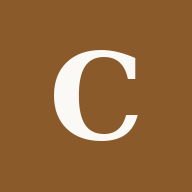
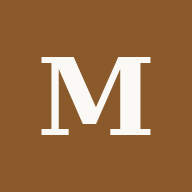
Add files via upload

Changed region(s): [[0.2188, 0.25, 0.7812, 0.75]]

diff --git a/index.html b/index.html
@@ -6,7 +6,8 @@
 <meta name="apple-mobile-web-app-capable" content="yes">
 <meta name="mobile-web-app-capable" content="yes">
 <meta name="theme-color" content="#1f1f1f">
-<title>Catartsma</title>
+<meta name="apple-mobile-web-app-title" content="Mira">
+<title>Mira</title>
 <link rel="manifest" href="manifest.json">
 <link rel="icon" href="icon-192.png">
 <link rel="apple-touch-icon" href="icon-192.png">
@@ -72,7 +73,7 @@
 </head>
 <body>
 <header id="hdr" class="hidden">
-  <h1>Catartsma</h1>
+  <h1>Mira</h1>
   <button data-nav="works" data-t="works_t"></button>
   <button data-nav="exhibitions" data-t="exhibitions"></button>
   <button data-nav="places" data-t="places"></button>
@@ -82,13 +83,15 @@
   <button data-nav="admins" data-t="admins" class="adm hidden"></button>
   <button data-nav="team" data-t="team" id="navTeam" class="hidden"></button>
   <span class="sp"></span>
+  <button id="btnCur" title="US$ / MX$"></button>
+  <button id="btnUnit" title="cm / in"></button>
   <button id="btnLang"></button>
   <button id="btnOut" data-t="logout"></button>
 </header>
 
 <main>
   <section id="vLogin" class="panel hidden" style="max-width:380px;margin-top:40px">
-    <h2>Catartsma</h2>
+    <h2>Mira</h2>
     <label data-t="email"></label><input id="lEmail" type="email" autocomplete="username">
     <label data-t="password"></label><input id="lPass" type="password" autocomplete="current-password">
     <div class="toolbar" style="margin-top:14px">
@@ -113,6 +116,7 @@
     <div class="toolbar" id="fOwnerBox"></div>
     <div class="toolbar">
       <span class="count" id="count"></span>
+      <span class="count" id="rateInfo" style="cursor:pointer;text-decoration:underline dotted"></span>
       <button id="btnSelAll" data-t="selectall"></button>
       <button id="btnSelClear" data-t="clearsel"></button>
       <button id="btnCards"></button>
@@ -158,7 +162,7 @@
     </div>
     <label data-t="signature"></label><input id="eSig">
     <div class="row">
-      <div><label data-t="price"></label><input id="ePrice" type="number" step="1" inputmode="decimal"></div>
+      <div><label data-t="price"></label><input id="ePrice" type="number" step="1" inputmode="decimal"><div class="muted" id="ePriceHint"></div></div>
       <div><label data-t="status"></label><select id="eStatus"></select></div>
     </div>
     <div class="row">
@@ -168,7 +172,7 @@
     <div class="row">
       <div><label data-t="owner"></label><select id="eOwner"></select></div>
       <div><label data-t="solddate"></label><input id="eSold" type="date"></div>
-      <div><label data-t="saleprice"></label><input id="eSale" type="number" step="1" inputmode="decimal"></div>
+      <div><label data-t="saleprice"></label><input id="eSale" type="number" step="1" inputmode="decimal"><div class="muted" id="eSaleHint"></div></div>
     </div>
     <label data-t="exhibitions"></label><div class="chips" id="eExhs"></div>
     <label data-t="notes"></label><textarea id="eNotes" rows="3"></textarea>
@@ -218,7 +222,7 @@
     <div style="overflow-x:auto"><table id="pTable"></table></div>
     <h3 id="pFormHead"></h3>
     <label data-t="pmedium"></label><input id="pMedium" list="pMediumList">
-    <datalist id="pMediumList"><option value="Giclée sobre papel de algodón"><option value="Giclée sobre canvas"><option value="Serigrafía"><option value="Litografía"><option value="Grabado"><option value="Impresión digital sobre papel"></datalist>
+    <datalist id="pMediumList"></datalist>
     <div class="row">
       <div><label data-t="height"></label><input id="pH" type="number" step="0.1" inputmode="decimal"></div>
       <div><label data-t="width"></label><input id="pW" type="number" step="0.1" inputmode="decimal"></div>
@@ -231,7 +235,7 @@
       <div><label data-t="psold"></label><input id="pSold" type="number" inputmode="numeric"></div>
     </div>
     <div class="row">
-      <div><label data-t="price"></label><input id="pPrice" type="number" step="1" inputmode="decimal"></div>
+      <div><label data-t="price"></label><input id="pPrice" type="number" step="1" inputmode="decimal"><div class="muted" id="pPriceHint"></div></div>
       <div><label data-t="pprinter"></label><input id="pPrinter"></div>
       <div><label data-t="pdate"></label><input id="pDate" type="date"></div>
     </div>
@@ -288,7 +292,7 @@ const sb = supabase.createClient(SUPABASE_URL, SUPABASE_KEY);
 
 const T = {
   es: { email:'Correo', password:'Contraseña', signin:'Entrar', signup:'Crear cuenta', logout:'Salir', artists:'Artistas', import:'Importar',
-    works_t:'Obras', copies:'Ejemplares', gencopies:'Generar ejemplares (1…tiraje + P/A)', copy:'Ejemplar', cst_available:'Disponible', cst_reserved:'Reservado', cst_sold:'Vendido', cst_gift:'Regalo', cst_artist:'Del artista', needsize:'Primero indica el tiraje y guarda la edición.',  hires:'Fotos en alta resolución (enlace o carpeta)', open:'Abrir', hiresfolder:'Carpeta de fotos en alta resolución', hireshint:'Carpeta general del artista: ', prints:'Reproducciones', manageprints:'Ver / editar reproducciones', savefirst:'Guarda la obra primero para agregar reproducciones.', noprints:'Sin reproducciones.', editions:'ediciones', edition1:'edición', pmedium:'Técnica de impresión / soporte', pedition:'Tiraje (ejemplares)', pap:'Pruebas de artista (P/A)', pprinted:'Impresos hasta hoy', psold:'Vendidos', pprinter:'Taller / impresor', pdate:'Fecha de impresión', back:'Volver', available_n:'disponibles', newedition:'Nueva edición', editedition:'Editar edición',  team:'Equipo', admins:'Admins', add:'Agregar', remove:'Quitar', you:'(tú)', owner_t:'(artista)', teamhelp:'Personas que pueden manejar tu cuenta: ven y editan solo tus obras, lugares, clientes y exposiciones. Agrega su correo; luego ellas crean su cuenta en la app con ese mismo correo.', adminshelp:'Los administradores ven y manejan todo, de todos los artistas. Agrega su correo; luego crean su cuenta en la app con ese correo.', takephoto:'Tomar foto', choosephotos:'Elegir fotos', newphoto:'nueva', pickworks:'Obras en esta exposición', pickall:'Todas / ninguna', exhibitions:'Exposiciones', places:'Lugares', clients:'Clientes',
+    works_t:'Obras', ap_short:'P/A', venueplace:'Lugar (sede)',  cms:'Centímetros', rateset:'Tipo de cambio: pesos por 1 dólar (vacío = automático)', rateauto:'automático', ratemanual:'fijado a mano', rateclick:'(tocar para cambiar)',  copies:'Ejemplares', gencopies:'Generar ejemplares (1…tiraje + P/A)', copy:'Ejemplar', cst_available:'Disponible', cst_reserved:'Reservado', cst_sold:'Vendido', cst_gift:'Regalo', cst_artist:'Del artista', needsize:'Primero indica el tiraje y guarda la edición.',  hires:'Fotos en alta resolución (enlace o carpeta)', open:'Abrir', hiresfolder:'Carpeta de fotos en alta resolución', hireshint:'Carpeta general del artista: ', prints:'Reproducciones', manageprints:'Ver / editar reproducciones', savefirst:'Guarda la obra primero para agregar reproducciones.', noprints:'Sin reproducciones.', editions:'ediciones', edition1:'edición', pmedium:'Técnica de impresión / soporte', pedition:'Tiraje (ejemplares)', pap:'Pruebas de artista (P/A)', pprinted:'Impresos hasta hoy', psold:'Vendidos', pprinter:'Taller / impresor', pdate:'Fecha de impresión', back:'Volver', available_n:'disponibles', newedition:'Nueva edición', editedition:'Editar edición',  team:'Equipo', admins:'Admins', add:'Agregar', remove:'Quitar', you:'(tú)', owner_t:'(artista)', teamhelp:'Personas que pueden manejar tu cuenta: ven y editan solo tus obras, lugares, clientes y exposiciones. Agrega su correo; luego ellas crean su cuenta en la app con ese mismo correo.', adminshelp:'Los administradores ven y manejan todo, de todos los artistas. Agrega su correo; luego crean su cuenta en la app con ese correo.', takephoto:'Tomar foto', choosephotos:'Elegir fotos', newphoto:'nueva', pickworks:'Obras en esta exposición', pickall:'Todas / ninguna', exhibitions:'Exposiciones', places:'Lugares', clients:'Clientes',
     new:'+ Nueva obra', selectall:'Seleccionar todo', clearsel:'Quitar selección', printcards:'Fichas', printcoas:'Certificados', pricelist:'Lista de precios',
     artist:'Artista', title:'Título', year:'Año', code:'Código', technique:'Técnica', support:'Soporte',
     height:'Alto (cm)', width:'Ancho (cm)', depth:'Fondo (cm)', fheight:'Alto con marco (cm)', fwidth:'Ancho con marco (cm)', fdepth:'Fondo con marco (cm)',
@@ -311,7 +315,7 @@ const T = {
     importfiles:'Fotos', importrun:'Importar', importdone:'Listo: {n} obras importadas.', importexists:'Este artista ya tiene obras; no se importó nada.',
     inches:'Pulgadas', unique:'Única' },
   en: { email:'Email', password:'Password', signin:'Sign in', signup:'Create account', logout:'Sign out', artists:'Artists', import:'Import',
-    works_t:'Works', copies:'Copies', gencopies:'Create copies (1…edition + AP)', copy:'Copy', cst_available:'Available', cst_reserved:'Reserved', cst_sold:'Sold', cst_gift:'Gift', cst_artist:'Artist’s', needsize:'First enter the edition size and save the edition.',  hires:'High-res photos (link or folder)', open:'Open', hiresfolder:'High-res photos folder', hireshint:'Artist’s general folder: ', prints:'Prints', manageprints:'View / edit prints', savefirst:'Save the work first to add prints.', noprints:'No prints.', editions:'editions', edition1:'edition', pmedium:'Print technique / support', pedition:'Edition size', pap:'Artist’s proofs (AP)', pprinted:'Printed so far', psold:'Sold', pprinter:'Print studio', pdate:'Print date', back:'Back', available_n:'available', newedition:'New edition', editedition:'Edit edition',  team:'Team', admins:'Admins', add:'Add', remove:'Remove', you:'(you)', owner_t:'(artist)', teamhelp:'People who can manage your account: they see and edit only your works, places, clients and exhibitions. Add their email; then they create their account in the app with that same email.', adminshelp:'Admins see and manage everything, for every artist. Add their email; then they create their account in the app with that email.', takephoto:'Take photo', choosephotos:'Choose photos', newphoto:'new', pickworks:'Works in this exhibition', pickall:'All / none', exhibitions:'Exhibitions', places:'Places', clients:'Clients',
+    works_t:'Works', ap_short:'AP', venueplace:'Place (venue)',  cms:'Centimeters', rateset:'Exchange rate: pesos per 1 dollar (empty = automatic)', rateauto:'automatic', ratemanual:'set by hand', rateclick:'(tap to change)',  copies:'Copies', gencopies:'Create copies (1…edition + AP)', copy:'Copy', cst_available:'Available', cst_reserved:'Reserved', cst_sold:'Sold', cst_gift:'Gift', cst_artist:'Artist’s', needsize:'First enter the edition size and save the edition.',  hires:'High-res photos (link or folder)', open:'Open', hiresfolder:'High-res photos folder', hireshint:'Artist’s general folder: ', prints:'Prints', manageprints:'View / edit prints', savefirst:'Save the work first to add prints.', noprints:'No prints.', editions:'editions', edition1:'edition', pmedium:'Print technique / support', pedition:'Edition size', pap:'Artist’s proofs (AP)', pprinted:'Printed so far', psold:'Sold', pprinter:'Print studio', pdate:'Print date', back:'Back', available_n:'available', newedition:'New edition', editedition:'Edit edition',  team:'Team', admins:'Admins', add:'Add', remove:'Remove', you:'(you)', owner_t:'(artist)', teamhelp:'People who can manage your account: they see and edit only your works, places, clients and exhibitions. Add their email; then they create their account in the app with that same email.', adminshelp:'Admins see and manage everything, for every artist. Add their email; then they create their account in the app with that email.', takephoto:'Take photo', choosephotos:'Choose photos', newphoto:'new', pickworks:'Works in this exhibition', pickall:'All / none', exhibitions:'Exhibitions', places:'Places', clients:'Clients',
     new:'+ New work', selectall:'Select all', clearsel:'Clear', printcards:'Cards', printcoas:'Certificates', pricelist:'Price list',
     artist:'Artist', title:'Title', year:'Year', code:'Code', technique:'Technique', support:'Support',
     height:'Height (cm)', width:'Width (cm)', depth:'Depth (cm)', fheight:'Framed height (cm)', fwidth:'Framed width (cm)', fdepth:'Framed depth (cm)',
@@ -346,6 +350,47 @@ const num = v => (v === '' || v == null) ? null : Number(v);
 const inch = cm => (Math.round(cm / 2.54 * 10) / 10).toFixed(1);
 const fmtNum = n => String(+n);
 const usd = n => n == null ? '' : 'US$' + Number(n).toLocaleString('en-US', {maximumFractionDigits:0});
+const ls = (k, d) => { try { const v = localStorage.getItem(k); return v == null ? d : v; } catch(e) { return d; } };
+const lsSet = (k, v) => { try { localStorage.setItem(k, v); } catch(e) {} };
+let cur = ls('mira_cur', 'USD'), unit = ls('mira_unit', 'cm');
+let rate = (() => { try { return JSON.parse(ls('mira_rate', 'null')); } catch(e) { return null; } })();   // {value, date, manual, fetched}
+async function refreshRate(force) {
+  if (rate?.manual && !force) return;
+  if (!force && rate?.fetched && Date.now() - rate.fetched < 6 * 3600e3) return;
+  const tries = [
+    ['https://api.frankfurter.dev/v1/latest?base=USD&symbols=MXN', j => [j.rates.MXN, j.date]],
+    ['https://open.er-api.com/v6/latest/USD', j => [j.rates.MXN, (j.time_last_update_utc || '').slice(5, 16)]]
+  ];
+  for (const [u, pick] of tries) {
+    try { const j = await (await fetch(u)).json(); const [v, d] = pick(j); if (v) { rate = { value: v, date: d, manual: false, fetched: Date.now() }; lsSet('mira_rate', JSON.stringify(rate)); return; } } catch(e) {}
+  }
+}
+const rateVal = () => rate?.value || null;
+const priceHdr = () => (cur === 'MXN' && rateVal()) ? t('price').replace('US$', 'MX$') : t('price');
+// money: amounts are stored in US$; shown in the chosen currency
+const money = n => {
+  if (n == null || n === '') return '';
+  if (cur === 'MXN' && rateVal()) return 'MX$' + (Math.round(Number(n) * rateVal() / 100) * 100).toLocaleString('en-US');
+  return usd(n);
+};
+const mxnHint = n => (n == null || n === '' || !rateVal()) ? '' : '≈ MX$' + (Math.round(Number(n) * rateVal() / 100) * 100).toLocaleString('en-US');
+// sizes: stored in cm; shown/entered in the chosen unit
+const toUnit = cm => unit === 'in' ? Math.round(cm / 2.54 * 10) / 10 : +cm;
+const fromUnit = v => (v === '' || v == null) ? null : (unit === 'in' ? Math.round(Number(v) * 2.54 * 10) / 10 : Number(v));
+// size inputs remember their exact cm value, so an untouched field never drifts when shown in inches
+function setDim(id, cm) { const el = $(id); el.dataset.cm = (cm == null || cm === '') ? '' : cm; el.value = (cm == null || cm === '') ? '' : toUnit(cm); }
+function readDim(id) {
+  const el = $(id);
+  if (el.value === '') return null;
+  if (el.dataset.cm !== undefined && el.dataset.cm !== '' && Number(el.value) === toUnit(Number(el.dataset.cm))) return Number(el.dataset.cm);
+  return fromUnit(el.value);
+}
+function dimsTxt(d, both = true) {
+  if (!d.length) return '';
+  const cmT = d.map(fmtNum).join(' x ') + ' cm', inT = d.map(inch).join(' x ') + ' in';
+  if (!both) return unit === 'in' ? inT : cmT;
+  return unit === 'in' ? inT + '  ·  ' + cmT : cmT + '  ·  ' + inT;
+}
 const photoUrl = p => sb.storage.from('photos').getPublicUrl(p).data.publicUrl;
 const opt = (v, label, sel) => `<option value="${esc(v)}"${sel ? ' selected' : ''}>${esc(label)}</option>`;
 const fmtDate = d => d ? new Date(d.length === 10 ? d + 'T12:00:00' : d).toLocaleDateString(lang === 'es' ? 'es-MX' : 'en-US', { year:'numeric', month:'long', day:'numeric' }) : '';
@@ -353,8 +398,7 @@ function dims(a, b, c) { return [a, b, c].filter(x => x != null && x !== ''); }
 function sizeText(w, withIn = true, framed = false) {
   const d = framed ? dims(w.framed_height_cm, w.framed_width_cm, w.framed_depth_cm) : dims(w.height_cm, w.width_cm, w.depth_cm);
   if (!d.length) return '';
-  const cm = d.map(fmtNum).join(' x ') + ' cm';
-  return withIn ? cm + '  ·  ' + d.map(inch).join(' x ') + ' in' : cm;
+  return dimsTxt(d, withIn);
 }
 const VIEWS = ['vLogin','vNoLink','vList','vEdit','vEnt','vImport','vTeam','vPrints'];
 function show(id) { VIEWS.forEach(v => $(v).classList.toggle('hidden', v !== id)); window.scrollTo(0,0); }
@@ -391,6 +435,7 @@ let curEnt = null, entEditing = null;
 
 async function boot() {
   applyLang();
+  if (cur === 'MXN') refreshRate().then(rerenderAll);
   const { data } = await sb.auth.getSession();
   if (data.session) await enter(data.session); else show('vLogin');
 }
@@ -436,15 +481,56 @@ const placeLabel = p => p.name + (isAdmin ? ' · ' + artistName(p.artist_id) : '
 
 function applyLang() {
   document.documentElement.lang = lang;
-  document.querySelectorAll('[data-t]').forEach(el => el.textContent = t(el.dataset.t));
+  document.querySelectorAll('[data-t]').forEach(el => { const v = t(el.dataset.t); el.textContent = unit === 'in' ? v.replace('(cm)', '(in)') : v; });
+  $('btnCur').textContent = cur === 'MXN' ? 'MX$' : 'US$'; $('btnUnit').textContent = unit;
+  renderRateInfo();
   $('btnLang').textContent = $('btnLang2').textContent = lang === 'es' ? 'English' : 'Español';
   $('fText').placeholder = t('search');
+  const stKeep = $('eStatus').value;
   $('eStatus').innerHTML = STATUSES.map(s => opt(s, t('st_'+s))).join('');
+  if (stKeep) $('eStatus').value = stKeep;
+  fillMediumList();
   fillFilters();
   if (!$('vList').classList.contains('hidden')) renderList();
   if (!$('vEnt').classList.contains('hidden') && curEnt) renderEnt();
 }
-function toggleLang() { lang = lang === 'es' ? 'en' : 'es'; try { localStorage.setItem('cat_lang', lang); } catch(e) {} applyLang(); }
+function renderRateInfo() {
+  const el = $('rateInfo'); if (!el) return;
+  el.textContent = (cur === 'MXN' && rateVal()) ? `1 US$ = ${rateVal().toFixed(2)} MX$ · ${rate.manual ? t('ratemanual') : (rate.date || t('rateauto'))} ${t('rateclick')}` : '';
+}
+function refreshOpenView() {
+  const open = id => !$(id).classList.contains('hidden');
+  if (open('vEdit')) { $('eHead').textContent = editing ? t('editwork') : t('newwork'); updInches(); renderPrintSummary(editing); }
+  if (open('vPrints')) { renderEdTable(); $('pFormHead').textContent = pEditing ? t('editedition') : t('newedition'); updPInches(); renderCopies(); }
+  if (open('vTeam')) { const em = $('tEmail').value; goTeam(teamMode).then(() => { $('tEmail').value = em; }); }
+}
+function rerenderAll() { applyLang(); refreshOpenView(); }
+function fillMediumList() {
+  const es = ['Giclée sobre papel de algodón','Giclée sobre canvas','Serigrafía','Litografía','Grabado','Impresión digital sobre papel'];
+  const en = ['Giclée on cotton paper','Giclée on canvas','Screen print','Lithograph','Etching','Digital print on paper'];
+  const el = $('pMediumList'); if (el) el.innerHTML = (lang === 'es' ? es : en).map(x => `<option value="${x}">`).join('');
+}
+async function toggleCur() {
+  cur = cur === 'USD' ? 'MXN' : 'USD'; lsSet('mira_cur', cur);
+  if (cur === 'MXN') await refreshRate();
+  rerenderAll();
+}
+function toggleUnit() {
+  const ids = ['eH','eW','eD','eFH','eFW','eFD','pH','pW'];
+  const cms = ids.map(id => readDim(id));          // exact cm for each field, in the old unit
+  unit = unit === 'cm' ? 'in' : 'cm'; lsSet('mira_unit', unit);
+  ids.forEach((id, i) => { const el = $(id); if (cms[i] == null) { el.value = ''; return; } el.dataset.cm = cms[i]; el.value = toUnit(cms[i]); });
+  rerenderAll(); updPInches();
+}
+async function editRate() {
+  const v = prompt(t('rateset'), rate?.manual ? String(rate.value) : '');
+  if (v === null) return;
+  const n = Number(String(v).replace(',', '.'));
+  if (v.trim() === '' || !n) { rate = null; lsSet('mira_rate', 'null'); await refreshRate(true); }
+  else { rate = { value: n, date: '', manual: true, fetched: Date.now() }; lsSet('mira_rate', JSON.stringify(rate)); }
+  rerenderAll();
+}
+function toggleLang() { lang = lang === 'es' ? 'en' : 'es'; try { localStorage.setItem('cat_lang', lang); } catch(e) {} applyLang(); refreshOpenView(); }
 
 function fillFilters() {
   const fa = $('fArtist').value, fs = $('fStatus').value, fp = $('fPlace').value, fe = $('fExh').value;
@@ -485,7 +571,7 @@ function renderList() {
       <div class="muted">${esc(w.code || '')}${isAdmin && w.artists ? ' · ' + esc(w.artists.name) : ''}</div>
       <div>${esc(sizeText(w, false))}</div>
       <div class="muted">${esc(placeName(w.place_id))}${w.owner_client_id ? ' · ' + esc(clientName(w.owner_client_id)) : ''}</div>
-      <div>${usd(w.price_usd)} <span class="badge b-${w.status}">${t('st_' + w.status)}</span>${w.eds.length ? ` <span class="badge">🖨 ${w.eds.length} ${w.eds.length === 1 ? t('edition1') : t('editions')}</span>` : ''}</div></div></div>`;
+      <div>${money(w.price_usd)} <span class="badge b-${w.status}">${t('st_' + w.status)}</span>${w.eds.length ? ` <span class="badge">🖨 ${w.eds.length} ${w.eds.length === 1 ? t('edition1') : t('editions')}</span>` : ''}</div></div></div>`;
   }).join('');
 }
 async function applyBulk() {
@@ -522,8 +608,8 @@ async function openEdit(w) {
   const v = (id, x) => $(id).value = x ?? '';
   v('eTitle', w?.title); v('eYear', w?.year); v('eCode', w?.code); v('eEdition', w?.edition);
   v('eTech', w?.technique); v('eSupport', w?.support);
-  v('eH', w?.height_cm); v('eW', w?.width_cm); v('eD', w?.depth_cm);
-  v('eFH', w?.framed_height_cm); v('eFW', w?.framed_width_cm); v('eFD', w?.framed_depth_cm);
+  setDim('eH', w?.height_cm); setDim('eW', w?.width_cm); setDim('eD', w?.depth_cm);
+  setDim('eFH', w?.framed_height_cm); setDim('eFW', w?.framed_width_cm); setDim('eFD', w?.framed_depth_cm);
   v('eSig', w?.signature); v('ePrice', w?.price_usd); $('eStatus').value = w?.status || 'available';
   v('eHires', w?.hires_url); updHires(); renderPrintSummary(w);
   v('eCons', w?.date_consigned); v('eSold', w?.sold_date); v('eSale', w?.sale_price_usd); v('eNotes', w?.notes);
@@ -547,11 +633,11 @@ function updHires() {
   const a = artists.find(x => x.id === artistOf());
   $('eHiresHint').textContent = a?.hires_folder ? t('hireshint') + a.hires_folder : '';
 }
-function edSize(e) { const d = [e.height_cm, e.width_cm].filter(x => x != null); return d.length ? d.map(fmtNum).join(' x ') + ' cm (' + d.map(inch).join(' x ') + ' in)' : ''; }
+function edSize(e) { return dimsTxt([e.height_cm, e.width_cm].filter(x => x != null)); }
 function edLine(e) {
   const avail = e.copies?.length ? e.copies.filter(c => c.kind === 'numbered' && c.status === 'available').length : (e.edition_size != null ? Math.max(0, e.edition_size - (e.sold_count || 0)) : null);
-  return [e.medium, edSize(e), e.edition_size != null ? `${t('pedition')}: ${e.edition_size}` + (e.ap_count ? ` + ${e.ap_count} P/A` : '') : '',
-          avail != null ? `${avail} ${t('available_n')}` : '', usd(e.price_usd)].filter(Boolean).join(' · ');
+  return [e.medium, edSize(e), e.edition_size != null ? `${t('pedition')}: ${e.edition_size}` + (e.ap_count ? ` + ${e.ap_count} ${t('ap_short')}` : '') : '',
+          avail != null ? `${avail} ${t('available_n')}` : '', money(e.price_usd)].filter(Boolean).join(' · ');
 }
 function renderPrintSummary(w) {
   $('btnPrints').classList.toggle('hidden', !w);
@@ -559,8 +645,8 @@ function renderPrintSummary(w) {
   $('ePrints').innerHTML = w.eds.length ? '<ul style="margin:4px 0;padding-left:18px">' + w.eds.map(e => `<li>${esc(edLine(e))}</li>`).join('') + '</ul>' : t('noprints');
 }
 function updInches() {
-  const d = [$('eH').value, $('eW').value, $('eD').value].filter(v => v !== '').map(Number);
-  $('eInches').textContent = d.length ? `${t('inches')}: ${d.map(inch).join(' x ')} in` : '';
+  const d = ['eH','eW','eD'].map(readDim).filter(v => v != null);
+  $('eInches').textContent = otherUnitHint(d); updPriceHints();
 }
 function renderPending() {
   $('ePending').innerHTML = pending.map((f, i) => `<div><img src="${f.url}"><button data-pend="${i}">✕</button></div>`).join('');
@@ -577,8 +663,8 @@ async function saveWork(stay = false) {
   const s = id => $(id).value.trim() || null;
   const rec = {
     artist_id: artistOf(), title, year: num($('eYear').value), edition: s('eEdition'), technique: s('eTech'), support: s('eSupport'),
-    height_cm: num($('eH').value), width_cm: num($('eW').value), depth_cm: num($('eD').value),
-    framed_height_cm: num($('eFH').value), framed_width_cm: num($('eFW').value), framed_depth_cm: num($('eFD').value),
+    height_cm: readDim('eH'), width_cm: readDim('eW'), depth_cm: readDim('eD'),
+    framed_height_cm: readDim('eFH'), framed_width_cm: readDim('eFW'), framed_depth_cm: readDim('eFD'),
     signature: s('eSig'), price_usd: num($('ePrice').value), status: $('eStatus').value,
     place_id: $('ePlace').value || null, date_consigned: $('eCons').value || null,
     owner_client_id: $('eOwner').value || null, sold_date: $('eSold').value || null, sale_price_usd: num($('eSale').value),
@@ -623,7 +709,7 @@ async function deleteWork() {
 // ---------- printing ----------
 function printWindow(head, body) {
   const w = window.open('', '_blank'); if (!w) return;
-  w.document.write(`<!DOCTYPE html><html><head><meta charset="utf-8"><title>Catartsma</title>${head}</head><body>${body}
+  w.document.write(`<!DOCTYPE html><html><head><meta charset="utf-8"><title>Mira</title>${head}</head><body>${body}
   <script>window.onload=()=>{const imgs=[...document.images];Promise.all(imgs.map(i=>i.complete?1:new Promise(r=>{i.onload=i.onerror=r}))).then(()=>setTimeout(()=>window.print(),300));}<\/script></body></html>`);
   w.document.close();
 }
@@ -641,7 +727,7 @@ function cardsHtml(list) {
   const body = list.map(w => `<div class="sq"><div class="img">${w.photos[0] ? `<img src="${photoUrl(w.photos[0].path)}">` : ''}</div>
     <div class="txt"><div class="ttl">${esc(w.title)}${w.year ? ', ' + w.year : ''}</div>
     <div class="ln">${esc(w.technique || '')}</div><div class="ln">${esc(sizeText(w))}</div>
-    <div class="pr">${w.status === 'sold' ? esc(t('st_sold')) : usd(w.price_usd)}</div></div></div>`).join('');
+    <div class="pr">${w.status === 'sold' ? esc(t('st_sold')) : money(w.price_usd)}</div></div></div>`).join('');
   return [head, body];
 }
 function coasHtml(list, today) {
@@ -695,16 +781,16 @@ function printPriceList(list) {
   if (!list.length) { alert(t('nothingsel')); return; }
   const ex = exhibitions.find(e => e.id === $('fExh').value);
   const head = `<style>@page{size:letter;margin:1.5cm} body{font-family:Arial,sans-serif;font-size:10pt} table{width:100%;border-collapse:collapse} td,th{border-bottom:1px solid #ccc;padding:5px;text-align:left;vertical-align:middle} img{width:2.2cm;height:2.2cm;object-fit:contain} th{font-size:9pt;color:#555}</style>`;
-  const body = `<h2>${esc(ex ? ex.title : 'Catartsma')}</h2>${ex ? `<p>${esc([ex.venue, ex.city].filter(Boolean).join(', '))}${ex.start_date ? ' · ' + fmtDate(ex.start_date) : ''}${ex.end_date ? ' – ' + fmtDate(ex.end_date) : ''}</p>` : ''}
-    <table><tr><th></th><th>${t('code')}</th><th>${t('title')}</th><th>${t('technique')}</th><th>cm / in</th><th>${t('price')}</th><th>${t('status')}</th></tr>` +
-    list.map(w => `<tr><td>${w.photos[0] ? `<img src="${photoUrl(w.photos[0].path)}">` : ''}</td><td>${esc(w.code||'')}</td><td><b>${esc(w.title)}</b>${w.year ? ', ' + w.year : ''}${isAdmin && w.artists ? '<br>' + esc(w.artists.name) : ''}</td><td>${esc(w.technique||'')}</td><td>${esc(sizeText(w))}</td><td>${usd(w.price_usd)}</td><td>${t('st_'+w.status)}</td></tr>`).join('') + '</table>';
+  const body = `<h2>${esc(ex ? ex.title : 'Mira')}</h2>${ex ? `<p>${esc([ex.venue, ex.city].filter(Boolean).join(', '))}${ex.start_date ? ' · ' + fmtDate(ex.start_date) : ''}${ex.end_date ? ' – ' + fmtDate(ex.end_date) : ''}</p>` : ''}
+    <table><tr><th></th><th>${t('code')}</th><th>${t('title')}</th><th>${t('technique')}</th><th>${unit === 'in' ? 'in / cm' : 'cm / in'}</th><th>${priceHdr()}</th><th>${t('status')}</th></tr>` +
+    list.map(w => `<tr><td>${w.photos[0] ? `<img src="${photoUrl(w.photos[0].path)}">` : ''}</td><td>${esc(w.code||'')}</td><td><b>${esc(w.title)}</b>${w.year ? ', ' + w.year : ''}${isAdmin && w.artists ? '<br>' + esc(w.artists.name) : ''}</td><td>${esc(w.technique||'')}</td><td>${esc(sizeText(w))}</td><td>${money(w.price_usd)}</td><td>${t('st_'+w.status)}</td></tr>`).join('') + '</table>';
   printWindow(head, body);
 }
 
 // ---------- generic lists ----------
 const ENT = {
   exhibitions: { table:'exhibitions', title:'exhibitions', owner:true, ownerOptional:true,
-    fields:[['title','title','text'],['venue','venue','text'],['place_id','place','place'],['city','city','text'],
+    fields:[['title','title','text'],['venue','venue','text'],['place_id','venueplace','place'],['city','city','text'],
             ['opening_date','opening','date'],['start_date','start','date'],['end_date','end','date'],['curator','curator','text'],['notes','notes','textarea']],
     cols:[['title','title'],['venue','venue'],['start_date','start'],['end_date','end']], countBy:e => works.filter(w => w.exh.includes(e.id)).length,
     showWorks:e => { resetFilters(); $('fExh').value = e.id; goWorks(); } },
@@ -811,28 +897,36 @@ function goPrints() {
   $('pThumb').src = pWork.photos[0] ? photoUrl(pWork.photos[0].path) : '';
   pEditing = null; renderPrints(); show('vPrints');
 }
-function renderPrints() {
+function renderPrints() { renderEdTable(); fillPrintForm(pEditing); }
+function renderEdTable() {
   const eds = (works.find(w => w.id === pWork.id) || pWork).eds;
   $('pTable').innerHTML = eds.length
-    ? `<tr><th>${t('pmedium')}</th><th>cm / in</th><th>${t('pedition')}</th><th>P/A</th><th>${t('pprinted')}</th><th>${t('psold')}</th><th>${t('price')}</th><th></th></tr>` +
-      eds.map(e => `<tr><td>${esc(e.medium || '')}</td><td>${esc(edSize(e))}</td><td>${e.edition_size ?? ''}</td><td>${e.ap_count ?? ''}</td><td>${e.printed_count ?? ''}</td><td>${e.sold_count ?? ''}</td><td>${usd(e.price_usd)}</td><td><button data-ped="${e.id}">${t('edit')}</button></td></tr>`).join('')
+    ? `<tr><th>${t('pmedium')}</th><th>${unit === 'in' ? 'in / cm' : 'cm / in'}</th><th>${t('pedition')}</th><th>${t('ap_short')}</th><th>${t('pprinted')}</th><th>${t('psold')}</th><th>${priceHdr()}</th><th></th></tr>` +
+      eds.map(e => `<tr><td>${esc(e.medium || '')}</td><td>${esc(edSize(e))}</td><td>${e.edition_size ?? ''}</td><td>${e.ap_count ?? ''}</td><td>${e.printed_count ?? ''}</td><td>${e.sold_count ?? ''}</td><td>${money(e.price_usd)}</td><td><button data-ped="${e.id}">${t('edit')}</button></td></tr>`).join('')
     : `<tr><td class="muted">${t('noprints')}</td></tr>`;
-  fillPrintForm(pEditing);
 }
 function fillPrintForm(e) {
   pEditing = e || null;
   $('pFormHead').textContent = e ? t('editedition') : t('newedition');
   const v = (id, x) => $(id).value = x ?? '';
-  v('pMedium', e?.medium); v('pH', e?.height_cm); v('pW', e?.width_cm); v('pEd', e?.edition_size); v('pAP', e?.ap_count);
+  v('pMedium', e?.medium); setDim('pH', e?.height_cm); setDim('pW', e?.width_cm); v('pEd', e?.edition_size); v('pAP', e?.ap_count);
   v('pPrinted', e?.printed_count); v('pSold', e?.sold_count); v('pPrice', e?.price_usd); v('pPrinter', e?.printer); v('pDate', e?.print_date); v('pNotes', e?.notes);
   $('btnPDel').classList.toggle('hidden', !e); updPInches(); msg($('pMsg'), '');
   if ((e?.id || null) !== lastEdId) copySel = new Set();
   lastEdId = e?.id || null; renderCopies();
 }
-function updPInches() { const d = [$('pH').value, $('pW').value].filter(v => v !== '').map(Number); $('pInches').textContent = d.length ? `${t('inches')}: ${d.map(inch).join(' x ')} in` : ''; }
+function updPInches() { const d = ['pH','pW'].map(readDim).filter(v => v != null); $('pInches').textContent = otherUnitHint(d); $('pPriceHint').textContent = cur === 'MXN' ? mxnHint(num($('pPrice').value)) : ''; }
+function otherUnitHint(d) {
+  if (!d.length) return '';
+  return unit === 'in' ? `${t('cms')}: ${d.map(fmtNum).join(' x ')} cm` : `${t('inches')}: ${d.map(inch).join(' x ')} in`;
+}
+function updPriceHints() {
+  $('ePriceHint').textContent = cur === 'MXN' ? mxnHint(num($('ePrice').value)) : '';
+  $('eSaleHint').textContent = cur === 'MXN' ? mxnHint(num($('eSale').value)) : '';
+}
 async function savePrint() {
   const s = id => $(id).value.trim() || null;
-  const rec = { work_id: pWork.id, medium: s('pMedium'), height_cm: num($('pH').value), width_cm: num($('pW').value),
+  const rec = { work_id: pWork.id, medium: s('pMedium'), height_cm: readDim('pH'), width_cm: readDim('pW'),
     edition_size: num($('pEd').value), ap_count: num($('pAP').value), printed_count: num($('pPrinted').value), sold_count: num($('pSold').value),
     price_usd: num($('pPrice').value), printer: s('pPrinter'), print_date: $('pDate').value || null, notes: s('pNotes') };
   if (!rec.medium && rec.edition_size == null) { msg($('pMsg'), t('needname'), true); return; }
@@ -849,7 +943,7 @@ async function deletePrint() {
 let copySel = new Set(), lastEdId = null;
 const curWork = () => works.find(w => w.id === pWork.id) || pWork;
 const curEd = id => curWork().eds.find(e => e.id === id) || null;
-const copyLabel = (c, e) => c.kind === 'ap' ? `P/A ${c.number}` : `${c.number}/${e.edition_size ?? '?'}`;
+const copyLabel = (c, e, forCoa) => c.kind === 'ap' ? `${forCoa ? 'P/A' : t('ap_short')} ${c.number}` : `${c.number}/${e.edition_size ?? '?'}`;
 function renderCopies() {
   const e = pEditing;
   $('pCopiesWrap').classList.toggle('hidden', !e);
@@ -899,10 +993,10 @@ async function printCopyCoas() {
       ['Obra original / Original work', w.title + (w.year ? ', ' + w.year : '')],
       ['Técnica / Medium', e.medium],
       ['Medidas / Size', edSize(e)],
-      ['Ejemplar / Print no.', copyLabel(c, e) + (c.kind === 'ap' ? '' : (e.ap_count ? `  (+ ${e.ap_count} P/A)` : ''))],
+      ['Ejemplar / Print no.', copyLabel(c, e, true) + (c.kind === 'ap' ? '' : (e.ap_count ? `  (+ ${e.ap_count} P/A)` : ''))],
       ['Impresor / Printer', e.printer],
       ['Fecha de impresión / Printed', e.print_date ? dEs(e.print_date) : ''],
-      ['Registro / Inventory no.', (w.code || '') + ' · ' + copyLabel(c, e)],
+      ['Registro / Inventory no.', (w.code || '') + ' · ' + copyLabel(c, e, true)],
       c.owner_client_id ? ['Propietario / Owner', clientName(c.owner_client_id)] : null
     ].filter(r => r && r[1]);
     const issued = c.coa_issued || today;
@@ -999,6 +1093,11 @@ async function runImport() {
 
 // ---------- events ----------
 $('btnLang').onclick = $('btnLang2').onclick = toggleLang;
+$('btnCur').onclick = toggleCur;
+$('btnUnit').onclick = toggleUnit;
+$('rateInfo').onclick = editRate;
+$('ePrice').oninput = $('eSale').oninput = updPriceHints;
+$('pPrice').oninput = updPInches;
 $('btnLogin').onclick = async () => {
   const r = await sb.auth.signInWithPassword({ email: $('lEmail').value.trim(), password: $('lPass').value });
   if (r.error) msg($('lMsg'), r.error.message, true); else await enter(r.data.session);
